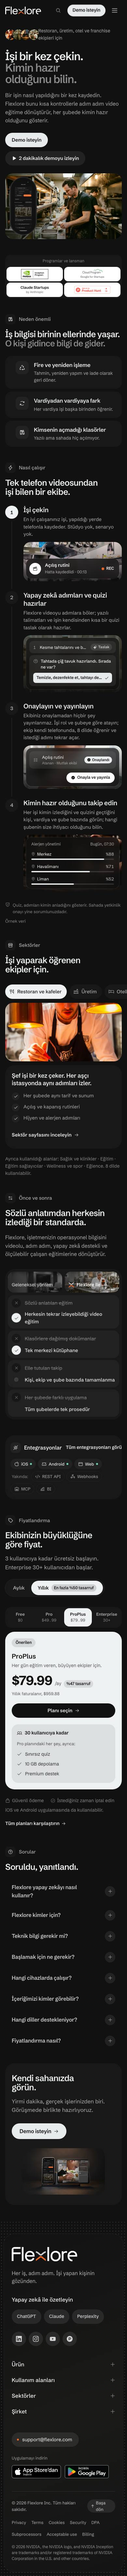
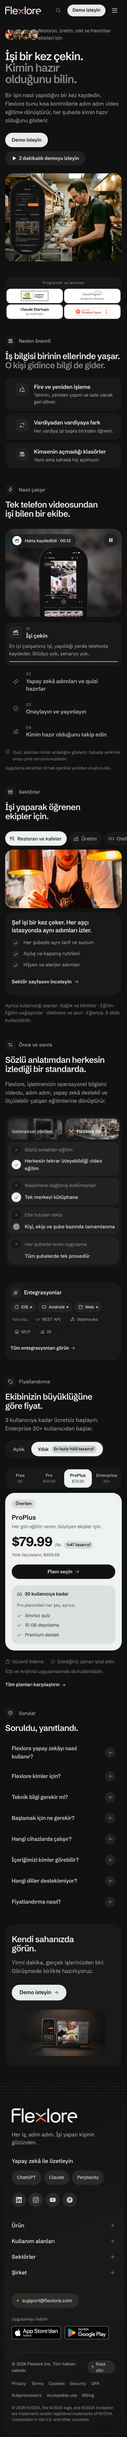
How it works: back to the approved process stage
The step-by-step scroll stage never switched past step 1 on desktop, left
large empty gaps beside it, repeated the hero kitchen photo and truncated the
mock text on phones. How it works now uses the approved stage again (blurred
loop, phone with the real app screen, status chip, 6 s autoplay with pause),
with the four new steps: editor, quiz, the worker's published job, readiness.
Phones show the stage first and the steps as a compact list.

Also: integrations link no longer overflows on phones; hero phone is larger
on phones (4:3 frame); plan switcher prices without tabular spacing.

390 px: 7,452 px (TR), 7,424 (EN), 7,621 (DE), 7,827 (PL), 7,169 (AR).

Changed region(s): [[0.0308, 0.0, 0.9846, 0.9962]]

diff --git a/components/home/home5b.tsx b/components/home/home5b.tsx
@@ -10,18 +10,17 @@ import { SITE, PLANS, savePct } from "../config";
 import { useLocale, fmt } from "../i18n/LocaleProvider";
 import { EXTRA, INTEG, COMPARE5 } from "../i18n/extra";
 import { HOME2 } from "../i18n/home2";
+import { Device, WorkScreen } from "../AppScreens";
 import { StoreButtons } from "../Icons";
 import { SmartVideo } from "../ui/SmartVideo";
 import { EASE } from "../ui/Reveal";
 import { Pic, Label, H2, card, type Ic } from "./home5";
 import {
-  ArrowRight, Check, CheckCircle, Users, Sparkle, MapPin, LockSimple, FilmSlate, Question, ChartBar, Plus, ShieldCheck, ListChecks,
-  X, ArrowsLeftRight, Storefront, PlugsConnected, Tag, Lightning, Buildings, ForkKnife, Factory, Bed, Code, Browser,
+  ArrowRight, Check, CheckCircle, Users, Sparkle, LockSimple, FilmSlate, Question, ChartBar, Plus, ShieldCheck,
+  X, ArrowsLeftRight, Play, Pause, Storefront, PlugsConnected, Tag, Lightning, Buildings, ForkKnife, Factory, Bed, Code, Browser,
   AppleLogo, AndroidLogo, WebhooksLogo, Robot,
 } from "../ui/icons";
 
-/** Percent in the visitor's locale ("%92" in Turkish, "92 %" in German). */
-const pct = (v: number, l: string) => { try { return new Intl.NumberFormat(l, { style: "percent", maximumFractionDigits: 0 }).format(v / 100); } catch { return `${v}%`; } };
 
 /* ---------- Before and after: the usual way vs Flexlore, row by row. `short` keeps four rows (home). ---------- */
 export function Compare5({ short = false }: { short?: boolean }) {
@@ -64,103 +63,69 @@ export function Compare5({ short = false }: { short?: boolean }) {
     </section>);
 }
 
-/* ---------- How it works: four steps, one picture each ----------
- * Phone: a vertical stepper, each step with its own small mock under the text.
- * Desktop: the steps scroll on the left while one sticky stage on the right shows the mock of the step in view.
- * The mocks are drawn in HTML with sample content and are decorative (aria-hidden). */
-const STEP_V = ["kitchen", "line", "plating", "coffee"] as const;
-const STEP_IC: Ic[] = [FilmSlate, Sparkle, CheckCircle, ChartBar];
-const glass = "rounded-[18px] bg-[rgb(17_17_17/0.72)] ring-1 ring-white/10 backdrop-blur-md";
-
-function StepMock({ i, big = false }: { i: number; big?: boolean }) {
-  const { d, locale } = useLocale(); const b = d.bento; const f = d.caps.frag; const x = EXTRA[locale]; const reduce = useReducedMotion();
-  const ref = useRef<HTMLDivElement>(null); const seen = useInView(ref, { amount: 0.4, once: true }); const go = seen || !!reduce;
-  // One small entrance per piece, played once when the mock is in view (final state at once under reduced motion).
-  const rise = (k: number) => (reduce ? {} : { initial: { opacity: 0, y: 10 }, animate: go ? { opacity: 1, y: 0 } : undefined, transition: { duration: 0.5, ease: EASE, delay: 0.1 + k * 0.12 } });
-  const row = "flex items-center gap-3 rounded-xl bg-[rgb(255_255_255/0.07)] px-3 py-2 text-[13px]";
-  const ok = <span className="flex items-center gap-1 rounded-full bg-[#E7EBEB] px-2 py-0.5 text-[11px] font-semibold text-[#111]"><CheckCircle size={12} weight="fill" />{f.ok}</span>;
-  const body = i === 0 ? (
-    <m.div {...rise(0)} className={`${glass} flex items-center gap-3 p-2.5 pe-4`}>
-      <span className="grid h-9 w-9 shrink-0 place-items-center rounded-full bg-white text-[#111]"><FilmSlate size={16} /></span>
-      <span className="min-w-0 flex-1"><span className="block truncate text-[14px] font-semibold">{b.jobs[0]}</span><span className="block truncate text-[12px] text-white/65">{x.chips[0]}</span></span>
-      <span className="flex items-center gap-1.5 text-[12px] font-semibold tabular-nums"><span className="h-2 w-2 rounded-full bg-[#EC6726]" />REC</span>
-    </m.div>
-  ) : i === 1 ? (
-    <div className={`${glass} space-y-1.5 p-2.5`}>
-      {(big ? [f.s1, f.s2] : [f.s1]).map((s, k) => (
-        <m.div key={s} {...rise(k)} className={row}><span className="tabular-nums text-white/55">{k + 1}</span><span className="flex-1 truncate">{s}</span>
-          <span className="flex items-center gap-1 rounded-full bg-[rgb(255_255_255/0.1)] px-2 py-0.5 text-[11px] font-semibold text-white/75"><Sparkle size={12} weight="fill" />{f.draft}</span></m.div>))}
-      <m.div {...rise(2)} className="rounded-xl bg-[rgb(255_255_255/0.07)] px-3 py-2.5 text-[13px]">
-        <p className="flex items-start gap-2 font-medium leading-snug"><Question size={15} className="mt-px shrink-0 text-white/60" />{b.q}</p>
-        <p className="mt-2 flex items-center justify-between gap-2 rounded-lg bg-[#E7EBEB] px-2.5 py-1.5 text-[12px] font-semibold text-[#111]"><span className="truncate">{b.qa[1]}</span><Check size={13} className="shrink-0" /></p>
-      </m.div>
-    </div>
-  ) : i === 2 ? (
-    <div className={`${glass} space-y-1.5 p-2.5`}>
-      {b.jobs.slice(0, big ? 2 : 1).map((j, k) => (
-        <m.div key={j} {...rise(k)} className={row}><ListChecks size={15} className="shrink-0 text-white/60" />
-          <span className="min-w-0 flex-1"><span className="block truncate">{j}</span><span className="block truncate text-[11px] text-white/55">{b.assigned} · {b.who[k]}</span></span>{ok}</m.div>))}
-      <m.div {...rise(2)} className={`flex items-center gap-3 px-1 pt-1.5 ${big ? "justify-between" : "justify-end"}`}>
-        {big && <span className="flex min-w-0 items-center gap-1.5 truncate text-[12px] text-white/65"><LockSimple size={13} className="shrink-0" />{f.roles[2][0]} · {f.roles[2][1]}</span>}
-        <span className="inline-flex h-8 shrink-0 items-center gap-1.5 rounded-full bg-white px-3.5 text-[12px] font-semibold text-[#111]"><CheckCircle size={13} weight="fill" />{b.approve}</span>
-      </m.div>
-    </div>
-  ) : (
-    <div className={`${glass} px-4 py-3`}>
-      <p className="flex items-center justify-between gap-3 text-[12px] text-white/65"><span className="truncate">{b.jobs[1]}</span><span className="shrink-0">{b.today}</span></p>
-      <ul className="mt-2.5 space-y-2.5">{b.locs.map((n, k) => { const v = [88, 71, 52][k]; return (
-        <li key={n}><p className="flex justify-between text-[13px]"><span className="flex items-center gap-1.5"><MapPin size={12} className="text-white/60" />{n}</span><span className="tabular-nums text-white/75">{pct(v, locale)}</span></p>
-          <span className="mt-1 block h-1 overflow-hidden rounded-full bg-[rgb(255_255_255/0.12)]">
-            <m.span className="block h-full origin-left rounded-full bg-[#E7EBEB] rtl:origin-right" style={{ width: `${v}%` }}
-              initial={reduce ? false : { scaleX: 0 }} animate={go ? { scaleX: 1 } : undefined} transition={{ duration: 1, ease: EASE, delay: 0.2 + k * 0.15 }} /></span></li>); })}</ul>
-    </div>);
-  return (
-    <div ref={ref} aria-hidden="true" className={`dark relative overflow-hidden bg-[#141414] text-white ${big ? "h-full rounded-[32px]" : "rounded-[22px]"}`}>
-      <picture><source srcSet={`/video/${STEP_V[i]}.avif`} type="image/avif" /><img src={`/video/${STEP_V[i]}.webp`} alt="" loading="lazy" className="absolute inset-0 h-full w-full object-cover" /></picture>
-      {big && <SmartVideo name={STEP_V[i]} poster={`/video/${STEP_V[i]}.webp`} threshold={0.3} className="absolute inset-0 h-full w-full object-cover" />}
-      <span className="absolute inset-0 bg-[linear-gradient(180deg,rgb(17_17_17/0.05)_0%,rgb(17_17_17/0.35)_45%,rgb(17_17_17/0.85)_100%)]" />
-      <div className={`relative flex flex-col justify-end ${big ? "h-full p-10" : `p-2 ${i === 0 ? "min-h-[120px]" : ""}`}`}><div className={big ? "mx-auto w-full max-w-[400px]" : ""}>{body}</div></div>
-    </div>);
-}
-
+/* ---------- How it works: four steps, one stage ----------
+ * The approved process stage (blurred loop behind a phone with the real app screen and a status chip) with the four
+ * steps of the product. Steps advance every 6 s while in view (pausable; never under reduced motion); hover or focus
+ * holds a step. Phones: the stage first, then the steps as a compact list where only the active one shows its text. */
+const STAGE = [{ v: "kitchen", icon: FilmSlate }, { v: "line", icon: Sparkle }, { v: "plating", icon: CheckCircle }, { v: "coffee", icon: ChartBar }] as const;
+const Editor = dynamic(() => import("../AppScreensStory").then((x) => x.EditorScreen), { ssr: false, loading: () => <div className="absolute inset-0 bg-[#111]" /> });
+const Quiz = dynamic(() => import("../AppScreensStory").then((x) => x.QuizScreen), { ssr: false, loading: () => <div className="absolute inset-0 bg-[#111]" /> });
+const Ready = dynamic(() => import("../AppScreensStory").then((x) => x.ReadyScreen), { ssr: false, loading: () => <div className="absolute inset-0 bg-[#111]" /> });
 export function Steps5() {
-  const { d, locale } = useLocale(); const c = d.process; const s = HOME2[locale].steps; const reduce = useReducedMotion();
-  const [on, setOn] = useState(0); const items = useRef<(HTMLLIElement | null)[]>([]);
-  // The sticky stage (and its video) only exists on wide screens; phones never download it.
-  const [wide, setWide] = useState(false);
-  useEffect(() => { const q = window.matchMedia("(min-width: 1024px)"); const f = () => setWide(q.matches); f(); q.addEventListener("change", f); return () => q.removeEventListener("change", f); }, []);
-  // The step crossing the middle of the viewport drives the sticky stage (desktop) and the highlighted number.
-  useEffect(() => {
-    const io = new IntersectionObserver((es) => es.forEach((e) => { if (e.isIntersecting) setOn(Number((e.target as HTMLElement).dataset.i)); }), { rootMargin: "-45% 0px -45% 0px" });
-    items.current.forEach((n) => n && io.observe(n)); return () => io.disconnect();
-  }, []);
+  const { d, lang, locale } = useLocale(); const c = d.process; const s = HOME2[locale].steps; const x = EXTRA[locale]; const reduce = useReducedMotion();
+  const ref = useRef<HTMLDivElement>(null); const on = useInView(ref, { amount: 0.35 }); const near = useInView(ref, { margin: "300px 0px", once: true });
+  const [i, setI] = useState(0); const [hold, setHold] = useState(false); const [paused, setPaused] = useState(false);
+  const run = on && !hold && !paused && !reduce;
+  useEffect(() => { if (!run) return; const t = window.setTimeout(() => setI((k) => (k + 1) % 4), 6000); return () => window.clearTimeout(t); }, [run, i]);
+  const screen = i === 0 ? <Editor active={on} lang={lang} /> : i === 1 ? <Quiz active={on} lang={lang} q={d.bento.q} a={d.bento.qa} />
+    : i === 2 ? <WorkScreen active={on} lang={lang} /> : <Ready active={on} lang={lang} />;
+  const chips = [x.chips[0], x.chips[1], `${d.caps.frag.ok} · ${d.bento.who[0]}`, x.chips[3]];
+  const ChipIc = STAGE[i].icon;
   return (
     <section id="how" aria-labelledby="how-h" className="section-y pt-0">
       <div className="container-x">
         <Label icon={Lightning}>{c.k}</Label><H2 id="how-h" className="max-w-[20ch]">{c.h}</H2>
-        <div className="mt-7 lg:mt-4 lg:grid lg:grid-cols-12 lg:gap-12">
-          <ol className="lg:col-span-5">
-            {s.map(([h, p], k) => { const I = STEP_IC[k]; const act = on === k; return (
-              <li key={h} ref={(n) => { items.current[k] = n; }} data-i={k} className="relative pb-6 ps-14 last:pb-0 lg:flex lg:min-h-[64vh] lg:flex-col lg:justify-center lg:pb-0 lg:ps-0">
-                {k < s.length - 1 && <span aria-hidden="true" className="absolute bottom-0 start-5 top-12 w-[2px] -translate-x-1/2 rounded-full bg-[var(--card-2)] rtl:translate-x-1/2 lg:hidden" />}
-                <span aria-hidden="true" className={`absolute start-0 top-0 flex h-10 w-10 items-center justify-center gap-1.5 rounded-full text-[15px] font-semibold tabular-nums transition-colors duration-300 lg:static lg:mb-5 lg:w-auto lg:self-start lg:px-3.5 ${act ? "bg-ink text-bg" : "bg-[var(--card)] text-ink-muted"}`}><I size={16} className="hidden lg:block" />{k + 1}</span>
-                <h3 className="mt-1.5 text-[20px] font-semibold leading-tight tracking-[-0.02em] md:text-[24px]">{h}</h3>
-                <p className="mt-1.5 max-w-[30rem] text-[15px] leading-[1.5] text-ink-muted md:mt-2 md:text-[16px] md:leading-[1.6]">{k === 0 ? c.steps[0][1] : p}</p>
-                <div className="mt-3 lg:hidden"><StepMock i={k} /></div>
+        <div ref={ref} className="mt-8 grid gap-4 md:mt-12 lg:grid-cols-12 lg:gap-10" onMouseEnter={() => setHold(true)} onMouseLeave={() => setHold(false)}>
+          <div className="dark relative aspect-[4/3] overflow-hidden rounded-[28px] bg-[#141414] sm:aspect-[16/11] lg:order-last lg:col-span-7 lg:aspect-auto lg:min-h-[620px] lg:rounded-[32px]">
+            <AnimatePresence initial={false}>
+              <m.div key={i} className="absolute inset-0" initial={{ opacity: 0 }} animate={{ opacity: 1 }} exit={{ opacity: 0 }} transition={{ duration: reduce ? 0 : 0.6, ease: EASE }}>
+                <img src={`/video/${STAGE[i].v}.webp`} alt="" loading="lazy" className="absolute inset-0 h-full w-full scale-110 object-cover opacity-45 blur-[6px]" />
+                {near && <SmartVideo name={STAGE[i].v} poster={`/video/${STAGE[i].v}.webp`} threshold={0.3} className="absolute inset-0 h-full w-full scale-110 object-cover opacity-45 blur-[6px]" />}
+              </m.div>
+            </AnimatePresence>
+            <span aria-hidden="true" className="absolute inset-0 bg-[radial-gradient(ellipse_at_50%_45%,rgb(20_20_20/0)_0%,rgb(20_20_20/0.75)_75%)]" />
+            {!reduce && <button type="button" onClick={() => setPaused(!paused)} aria-label={paused ? c.play : c.pause} className="absolute end-3 top-3 z-10 grid h-11 w-11 place-items-center rounded-full bg-[rgb(30_30_30/0.85)] text-white/80 ring-1 ring-white/10 backdrop-blur-md transition-colors hover:text-white md:end-5 md:top-5">{paused ? <Play size={15} weight="fill" aria-hidden="true" /> : <Pause size={15} weight="fill" aria-hidden="true" />}</button>}
+            <div className="absolute left-1/2 top-[19%] w-[min(42%,280px)] -translate-x-1/2 lg:top-[17%] lg:w-[min(50%,280px)]" dir="ltr">
+              <Device label={s[i][0]}>{near ? screen : <div className="absolute inset-0 bg-[#111]" />}</Device>
+            </div>
+            <AnimatePresence mode="wait" initial={false}>
+              <m.div key={i} initial={reduce ? false : { opacity: 0, y: 10 }} animate={{ opacity: 1, y: 0 }} exit={reduce ? undefined : { opacity: 0, y: -6 }} transition={{ duration: 0.35, ease: EASE }}
+                className="absolute start-4 top-4 flex w-max max-w-[calc(100%-5rem)] items-center gap-2.5 rounded-full bg-[rgb(30_30_30/0.85)] py-1.5 pe-4 ps-1.5 text-[13px] font-medium text-white ring-1 ring-white/10 backdrop-blur-md md:start-5 md:top-5 md:gap-3 md:py-2 md:pe-5 md:ps-2 md:text-[14px]">
+                <span className="grid h-7 w-7 shrink-0 place-items-center rounded-full bg-white text-[#111] md:h-8 md:w-8"><ChipIc size={15} /></span><span className="truncate">{chips[i]}</span>
+              </m.div>
+            </AnimatePresence>
+          </div>
+          <ol className="flex flex-col gap-1 lg:col-span-5 lg:justify-center" role="tablist" aria-label={c.k}>
+            {s.map(([h, p], k) => { const I = STAGE[k].icon; const act = i === k; return (
+              <li key={h}>
+                <button type="button" role="tab" aria-selected={act} onClick={() => setI(k)} onFocus={() => setI(k)}
+                  className={`relative block w-full rounded-[20px] p-3 text-start transition-colors duration-300 md:rounded-[22px] md:p-5 ${act ? "bg-[var(--card)]" : "hover:bg-[var(--card)]/50"}`}>
+                  <span className="flex items-center gap-3 md:gap-4">
+                    <span className={`grid h-10 w-10 shrink-0 place-items-center rounded-[12px] transition-colors duration-300 md:h-11 md:w-11 md:rounded-[14px] ${act ? "bg-[var(--card-2)] text-ink" : "text-ink-faint"}`}><I size={19} /></span>
+                    <span className="min-w-0">
+                      <span className="block text-[12px] font-medium uppercase tracking-[.08em] text-ink-faint">{String(k + 1).padStart(2, "0")}</span>
+                      <span className={`block text-[17px] font-semibold leading-snug tracking-[-0.015em] transition-colors md:text-[19px] ${act ? "text-ink" : "text-ink-muted"}`}>{h}</span>
+                    </span>
+                  </span>
+                  <span className={`mt-2 block text-[15px] leading-[1.55] text-ink-muted md:mt-3 md:ps-[3.75rem] ${act ? "" : "hidden"}`}>{k === 0 ? c.steps[0][1] : p}</span>
+                  {act && <span aria-hidden="true" className="mt-3 block h-[2px] overflow-hidden rounded-full bg-[var(--card-2)] md:mt-4 md:ms-[3.75rem]">
+                    <span key={`${i}-${run}`} className="block h-full origin-left rounded-full bg-ink/70 rtl:origin-right" style={{ animation: run ? "procbar 6s linear forwards" : "none", transform: run ? undefined : "scaleX(1)" }} /></span>}
+                </button>
               </li>); })}
           </ol>
-          <div className="hidden lg:col-span-7 lg:block">
-            <div className="sticky top-[calc(var(--header-h)+24px)] h-[min(78vh,720px)]">
-              {wide && <AnimatePresence initial={false}>
-                <m.div key={on} className="absolute inset-0" initial={reduce ? false : { opacity: 0, scale: 1.02 }} animate={{ opacity: 1, scale: 1 }} exit={reduce ? undefined : { opacity: 0 }} transition={{ duration: 0.5, ease: EASE }}>
-                  <StepMock i={on} big />
-                </m.div>
-              </AnimatePresence>}
-            </div>
-          </div>
         </div>
-        <div className="mt-8 flex flex-col gap-2 text-[13px] text-ink-faint sm:flex-row sm:justify-between">
-          <p className="flex items-start gap-2"><ShieldCheck size={15} aria-hidden="true" className="mt-px shrink-0" />{c.note}</p><p>{d.bento.sample}</p>
+        <div className="mt-5 flex flex-col gap-2 text-[13px] text-ink-faint sm:flex-row sm:justify-between md:mt-6">
+          <p className="flex items-start gap-2"><ShieldCheck size={15} aria-hidden="true" className="mt-px shrink-0" />{c.note}</p><p>{c.sample}</p>
         </div>
       </div>
     </section>);
@@ -223,15 +188,13 @@ export function Integrations5() {
     <section id="integrations" aria-labelledby="int-h" className="section-y pt-0">
       <div className="container-x">
         <div className={`${card} flex flex-col gap-3 p-4 md:p-5 lg:flex-row lg:items-center lg:gap-6`}>
-          <div className="flex items-center justify-between gap-3 lg:contents">
             <h2 id="int-h" className="flex shrink-0 items-center gap-2.5 text-[16px] font-semibold"><span className="grid h-8 w-8 place-items-center rounded-[10px] bg-[var(--card-2)]"><PlugsConnected size={16} aria-hidden="true" /></span>{c.k}</h2>
-            <Link href="/integrations/" className="inline-flex min-h-11 shrink-0 items-center gap-1.5 text-[14px] font-semibold hover:underline lg:order-last">{c.cta}<ArrowRight size={13} aria-hidden="true" className="rtl:-scale-x-100" /></Link>
-          </div>
           <ul className="flex flex-1 flex-wrap items-center gap-1.5 md:gap-2">
             {LIVE.map(([I, n], i) => <li key={n} className={`${chip} bg-[var(--card-2)] font-medium`}><I size={15} aria-hidden="true" />{n}<span className="sr-only"> ({c.liveItems[i]}, {c.live})</span><span aria-hidden="true" className="h-1.5 w-1.5 rounded-full bg-calm-aqua" /></li>)}
             <li className="px-1 text-[13px] text-ink-faint">{d.pricingPage.soon}:</li>
             {NEXT.map(([I, n]) => <li key={n} className={`${chip} text-ink-muted ring-1 ring-inset ring-[var(--card-2)]`}><I size={15} aria-hidden="true" />{n}</li>)}
           </ul>
+          <Link href="/integrations/" className="inline-flex min-h-11 shrink-0 items-center gap-1.5 self-start text-[14px] font-semibold hover:underline lg:self-auto">{c.cta}<ArrowRight size={13} aria-hidden="true" className="rtl:-scale-x-100" /></Link>
         </div>
       </div>
     </section>);
@@ -313,7 +276,7 @@ export function Pricing5() {
             <button key={p.id} type="button" aria-pressed={act} aria-controls={`plan-${p.id}`} onClick={() => setSel(p.id)}
               className={`flex min-h-14 flex-col items-center justify-center rounded-[16px] px-1 text-center transition-colors ${act ? "bg-ink text-bg" : "text-ink-muted"}`}>
               <span className="text-[13px] font-semibold leading-tight">{c.plans[p.id as keyof typeof c.plans][0]}</span>
-              <span className={`mt-0.5 text-[12px] tabular-nums ${act ? "text-bg/75" : "text-ink-faint"}`}>{pr ? pr.now : "30+"}</span>
+              <span className={`mt-0.5 text-[12px] ${act ? "text-bg/75" : "text-ink-faint"}`}>{pr ? pr.now : "30+"}</span>
             </button>); })}
         </div>
         <ul className="mt-3 grid items-stretch gap-3 sm:mt-12 sm:grid-cols-2 xl:grid-cols-4">

diff --git a/components/home/home5.tsx b/components/home/home5.tsx
@@ -54,13 +54,13 @@ export function Hero5({ children }: { children?: React.ReactNode }) {
           </div>
           {/* One scene: the kitchen, one phone in front of it, one status card. */}
           <div className="col-span-12 lg:col-span-6">
-            <div className="hs-device relative mx-auto aspect-[16/9] max-w-[560px] sm:aspect-[4/5] lg:me-0" style={{ animationDelay: "250ms" }}>
+            <div className="hs-device relative mx-auto aspect-[4/3] max-w-[560px] sm:aspect-[4/5] lg:me-0" style={{ animationDelay: "250ms" }}>
               <div className="dark absolute inset-y-0 end-0 w-full overflow-hidden rounded-[24px] bg-[#2a2622] sm:w-[86%] sm:rounded-[32px]">
                 <Pic n="kitchenline" eager sizes="(min-width:1024px) 40vw, 90vw" className="absolute inset-0 h-full w-full object-cover object-[35%_center]" />
                 <SmartVideo name="kitchen" underlay threshold={0.2} className="absolute inset-0 h-full w-full object-cover" />
                 <span aria-hidden="true" className="absolute inset-0 bg-[linear-gradient(200deg,rgb(17_17_17/0)_40%,rgb(17_17_17/0.55)_100%)]" />
               </div>
-              <div className="absolute bottom-[6%] start-[4%] w-[23%] max-w-[250px] sm:bottom-[7%] sm:start-0 sm:w-[44%]" dir="ltr"><Device label={h.chip.t}><WorkScreen active lang={lang} /></Device></div>
+              <div className="absolute bottom-[6%] start-[4%] w-[30%] max-w-[250px] sm:bottom-[7%] sm:start-0 sm:w-[44%]" dir="ltr"><Device label={h.chip.t}><WorkScreen active lang={lang} /></Device></div>
             </div>
           </div>
         </div>
